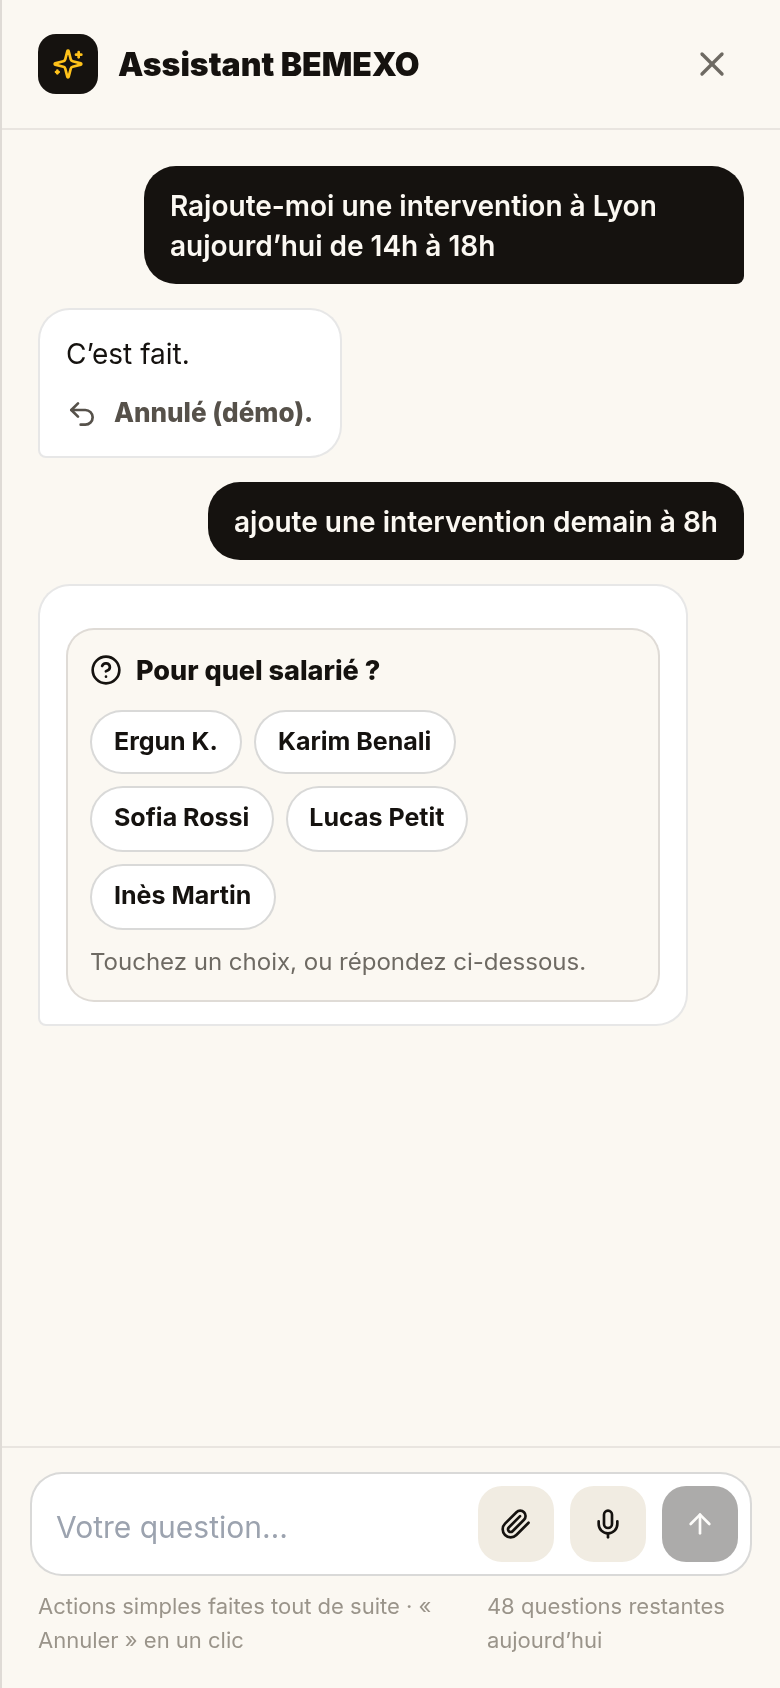
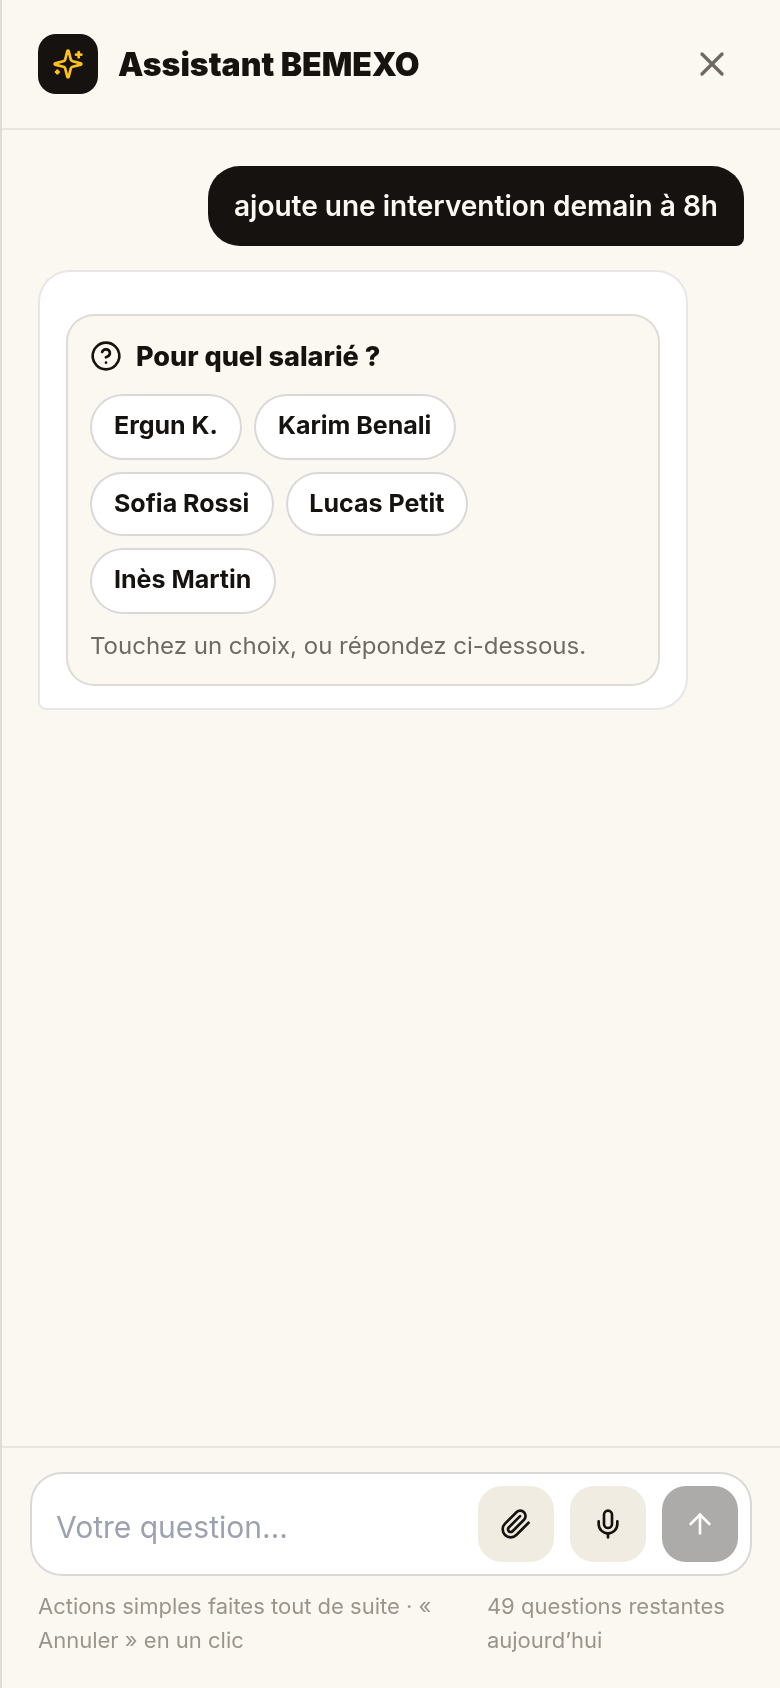
Lot 9 : borne — grille qui revient en haut après une minute, noms longs sur deux lignes, textes ; script test:kiosk-board ; commentaire de la migration à jour
Claude-Session: https://claude.ai/code/session_01UjXHEzdjb9t6bteo8SrVhu

diff --git a/components/kiosk-week-grid.tsx b/components/kiosk-week-grid.tsx
@@ -12,7 +12,7 @@
 // Les données arrivent déjà réduites à la liste blanche par la fonction kiosk
 // (supabase/functions/_shared/kiosk-board.ts) : ce composant ne lit rien.
 
-import { memo } from 'react';
+import { memo, useEffect, useRef } from 'react';
 import { format, getISOWeek, parseISO } from 'date-fns';
 import { fr } from 'date-fns/locale';
 import { PL_GRID_CSS, PlannedBubbleView, paletteAt } from '@/components/planning-bubble';
@@ -43,6 +43,7 @@ ${PL_GRID_CSS}
 .kb-week .bt-pl-livechip{flex-wrap:wrap;row-gap:3px}
 .kb-week .bt-pl-livechip .kb-lx-title{flex:1;min-width:0;overflow-wrap:anywhere}
 .kb-week .bt-pl-livechip .t{flex-basis:100%;white-space:normal}
+.kb-week .bt-pl-name{white-space:normal;overflow-wrap:anywhere;display:-webkit-box;-webkit-line-clamp:2;-webkit-box-orient:vertical;line-height:1.15}
 .kb-week-empty{padding:28px 16px;text-align:center;color:#6E6A63;font-weight:700;font-size:15px}
 @media (max-width:1180px){
   .kb-week .bt-pl-th-name{width:168px}
@@ -73,8 +74,19 @@ function KioskWeekGrid({ board, today, showLive }: {
   for (const s of board.slots) { const k = `${s.w}|${s.date}`; slotsOf.set(k, [...(slotsOf.get(k) || []), s]); }
   const extrasOf = new Map<string, KioskBoardLiveExtra[]>();
   for (const x of board.live_extra) { const k = `${x.w}|${x.date}`; extrasOf.set(k, [...(extrasOf.get(k) || []), x]); }
+  // Écran mural : après une minute sans toucher, la grille revient en haut
+  // pour la personne suivante (sinon les premières lignes restent cachées).
+  const ref = useRef<HTMLDivElement>(null);
+  useEffect(() => {
+    const el = ref.current;
+    if (!el) return;
+    let t: ReturnType<typeof setTimeout> | null = null;
+    const arm = () => { if (t) clearTimeout(t); t = setTimeout(() => el.scrollTo({ top: 0, behavior: 'smooth' }), 60 * 1000); };
+    el.addEventListener('scroll', arm, { passive: true });
+    return () => { el.removeEventListener('scroll', arm); if (t) clearTimeout(t); };
+  }, []);
   return (
-    <div className="kb-week" data-testid="kb-week">
+    <div className="kb-week" data-testid="kb-week" ref={ref}>
       <style dangerouslySetInnerHTML={{ __html: KIOSK_WEEK_CSS }} />
       <table className="bt-pl-table">
         <thead>

diff --git a/app/borne/page.tsx b/app/borne/page.tsx
@@ -92,7 +92,7 @@ function demoBoard(nowMs: number): KioskBoard {
     { id: 'demo-karim', first_name: 'Karim', last_name: 'Haddad' },
     { id: 'demo-lucas', first_name: 'Lucas', last_name: 'Petit' },
     { id: 'demo-sofia', first_name: 'Sofia', last_name: 'Moreau' },
-    { id: 'demo-thomas', first_name: 'Thomas', last_name: 'Lefèvre' },
+    { id: 'demo-thomas', first_name: 'Bastien', last_name: 'Lefèvre' },
   ];
   const worksites = [
     { id: 'demo-w-dupont', client_name: 'Villa Dupont', city: 'Lyon 6e' },
@@ -125,7 +125,8 @@ function demoBoard(nowMs: number): KioskBoard {
   const sessions: BoardSession[] = [
     // Karim a scanné à 07:42 sur son chantier prévu → bulle verte.
     { user_id: 'demo-karim', worksite_id: 'demo-w-dupont', planning_id: karimToday?.id ?? null, work_date: today, started_at: parisIso(today, '07:42') },
-    // Thomas est passé au dépôt, qui n'est pas à son planning → ligne à part.
+    // Bastien est passé au dépôt, qui n'est pas à son planning → ligne à part
+    // (en haut de la liste : visible sans faire défiler sur la capture).
     { user_id: 'demo-thomas', worksite_id: 'demo-w-depot', planning_id: null, work_date: today, started_at: parisIso(today, '06:58') },
   ];
   return buildBoard({ users, planning, worksites, sessions, nowMs });

diff --git a/components/kiosk-admin.tsx b/components/kiosk-admin.tsx
@@ -230,7 +230,7 @@ export default function KioskAdmin({ open, onOpenChange, companyId }: Props) {
               </label>
               <div className="ka-sw" style={{ display: 'block' }}>
                 <b>Horaires d&apos;ouverture <span style={{ fontWeight: 600, color: '#9a948a' }}>(facultatif)</span></b>
-                <span className="ka-p">En dehors, l&apos;écran est noir ; un toucher le rallume.</span>
+                <span className="ka-p">En dehors, l&apos;écran est noir ; un toucher ouvre le QR pour pointer.</span>
                 <div className="ka-hours">
                   <input className="ka-i" type="time" aria-label="Ouverture" value={settings.active_from || ''} onChange={(e) => setSettings({ ...settings, active_from: e.target.value || null })} />
                   <span className="ka-p">à</span>
